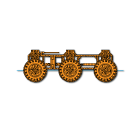
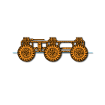
Rescaled Gauge assets to 75% original size
...

Changed region(s): [[0.1429, 0.3429, 0.8571, 0.6], [0.2, 0.3429, 0.2286, 0.4]]

diff --git a/src/map/WaypointPanel.java b/src/map/WaypointPanel.java
@@ -31,7 +31,8 @@ import javax.xml.stream.XMLStreamException;
 
 class WaypointPanel extends NinePatchPanel {
     protected static final int MOVE_STEP = 32;
-    protected static final int BDR_SIZE = 25;
+    protected static final int BDR_SIZE_TB = 20;
+    protected static final int BDR_SIZE_LR = 15;
     protected static final String NO_WAYPOINT_MSG = "N / A";
     private Context context;
     private MapPanel map;
@@ -71,7 +72,8 @@ class WaypointPanel extends NinePatchPanel {
         setOpaque(false);
         LayoutManager layout = new BoxLayout(this, BoxLayout.PAGE_AXIS);
         setLayout(layout);
-        setBorder(BorderFactory.createEmptyBorder(BDR_SIZE,BDR_SIZE,BDR_SIZE,BDR_SIZE));
+        setBorder(BorderFactory.createEmptyBorder(BDR_SIZE_TB, BDR_SIZE_LR,
+        		BDR_SIZE_TB, BDR_SIZE_LR));
         buildPanel();
         addMouseListener(new MouseAdapter() {
             public void mousePressed(MouseEvent me) {

diff --git a/src/ui/ninePatch/NinePatch.java b/src/ui/ninePatch/NinePatch.java
@@ -220,7 +220,9 @@ public class NinePatch {
         g2d.dispose();
     }
 
+    /*
     public static void main(String[] args) {
+    
         JFrame f = new JFrame("9-Patch Test");
 
         NinePatch test3 = new NinePatch();
@@ -290,4 +292,5 @@ public class NinePatch {
         }
 
     }
+    */
 }
